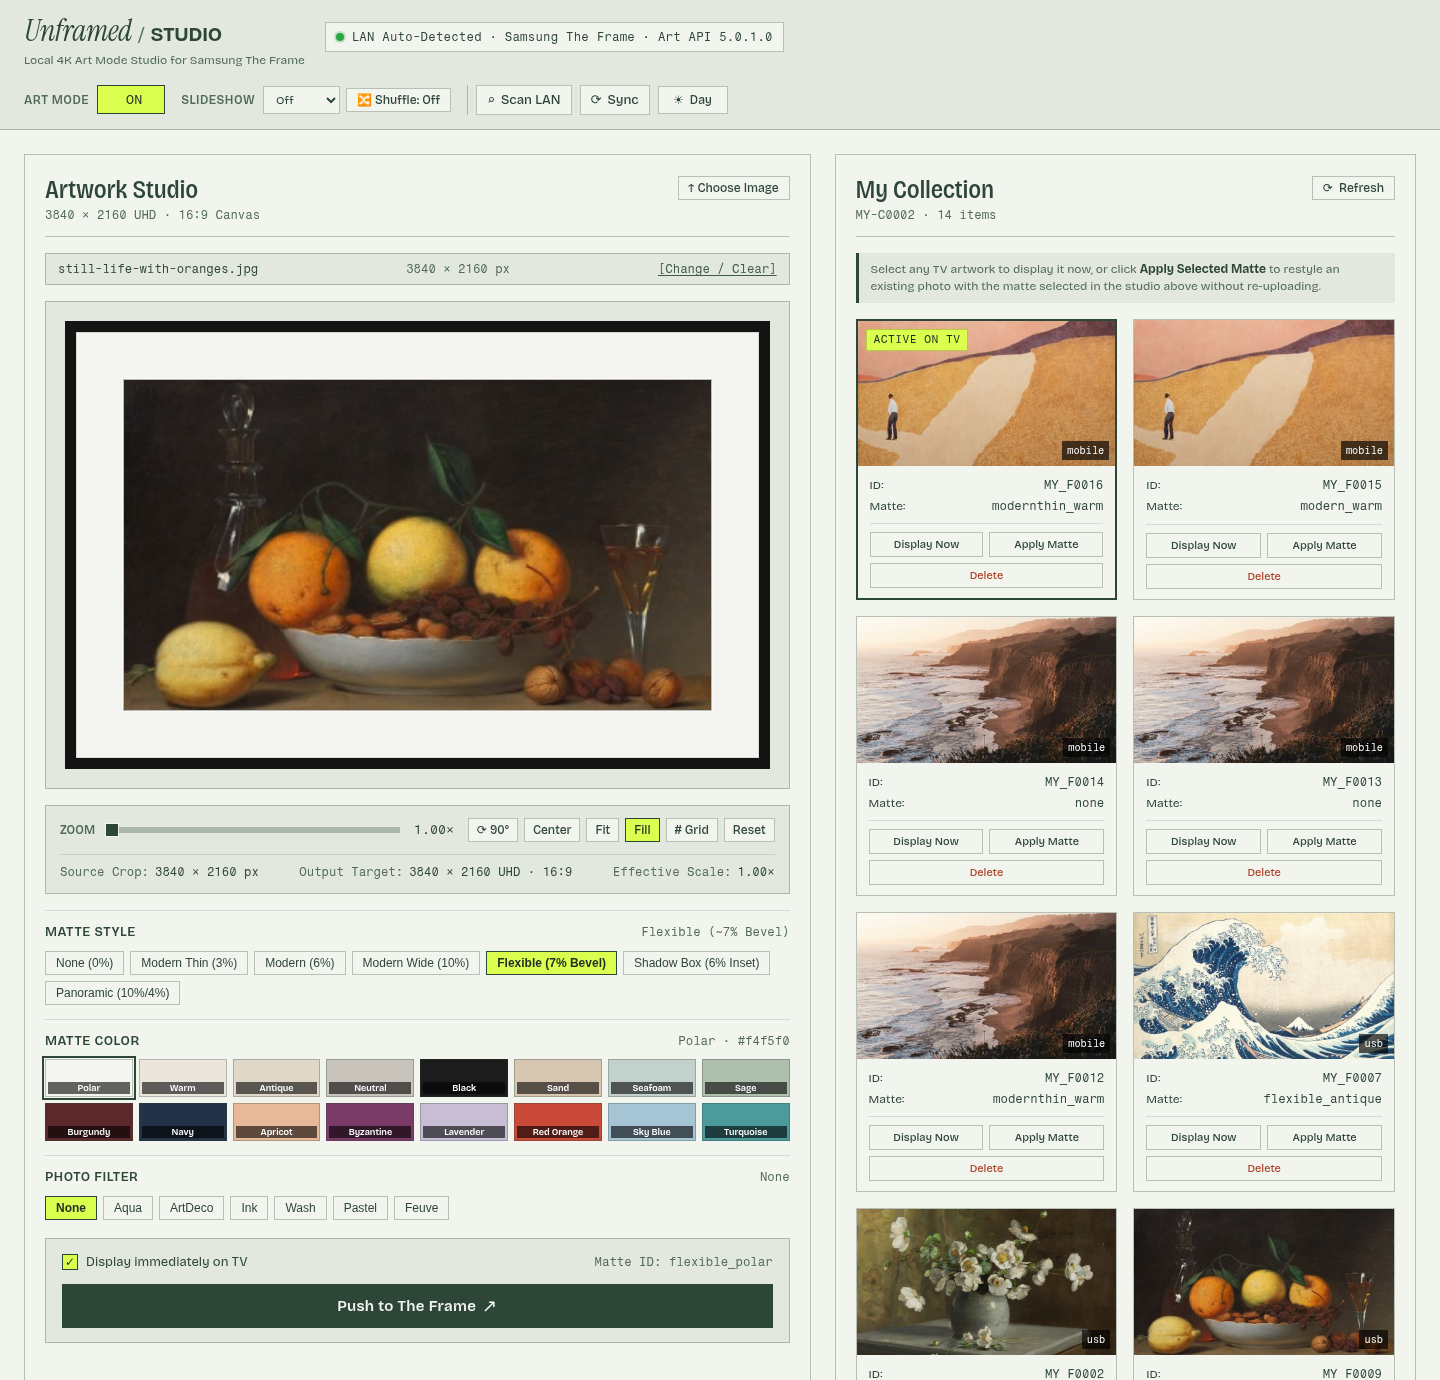
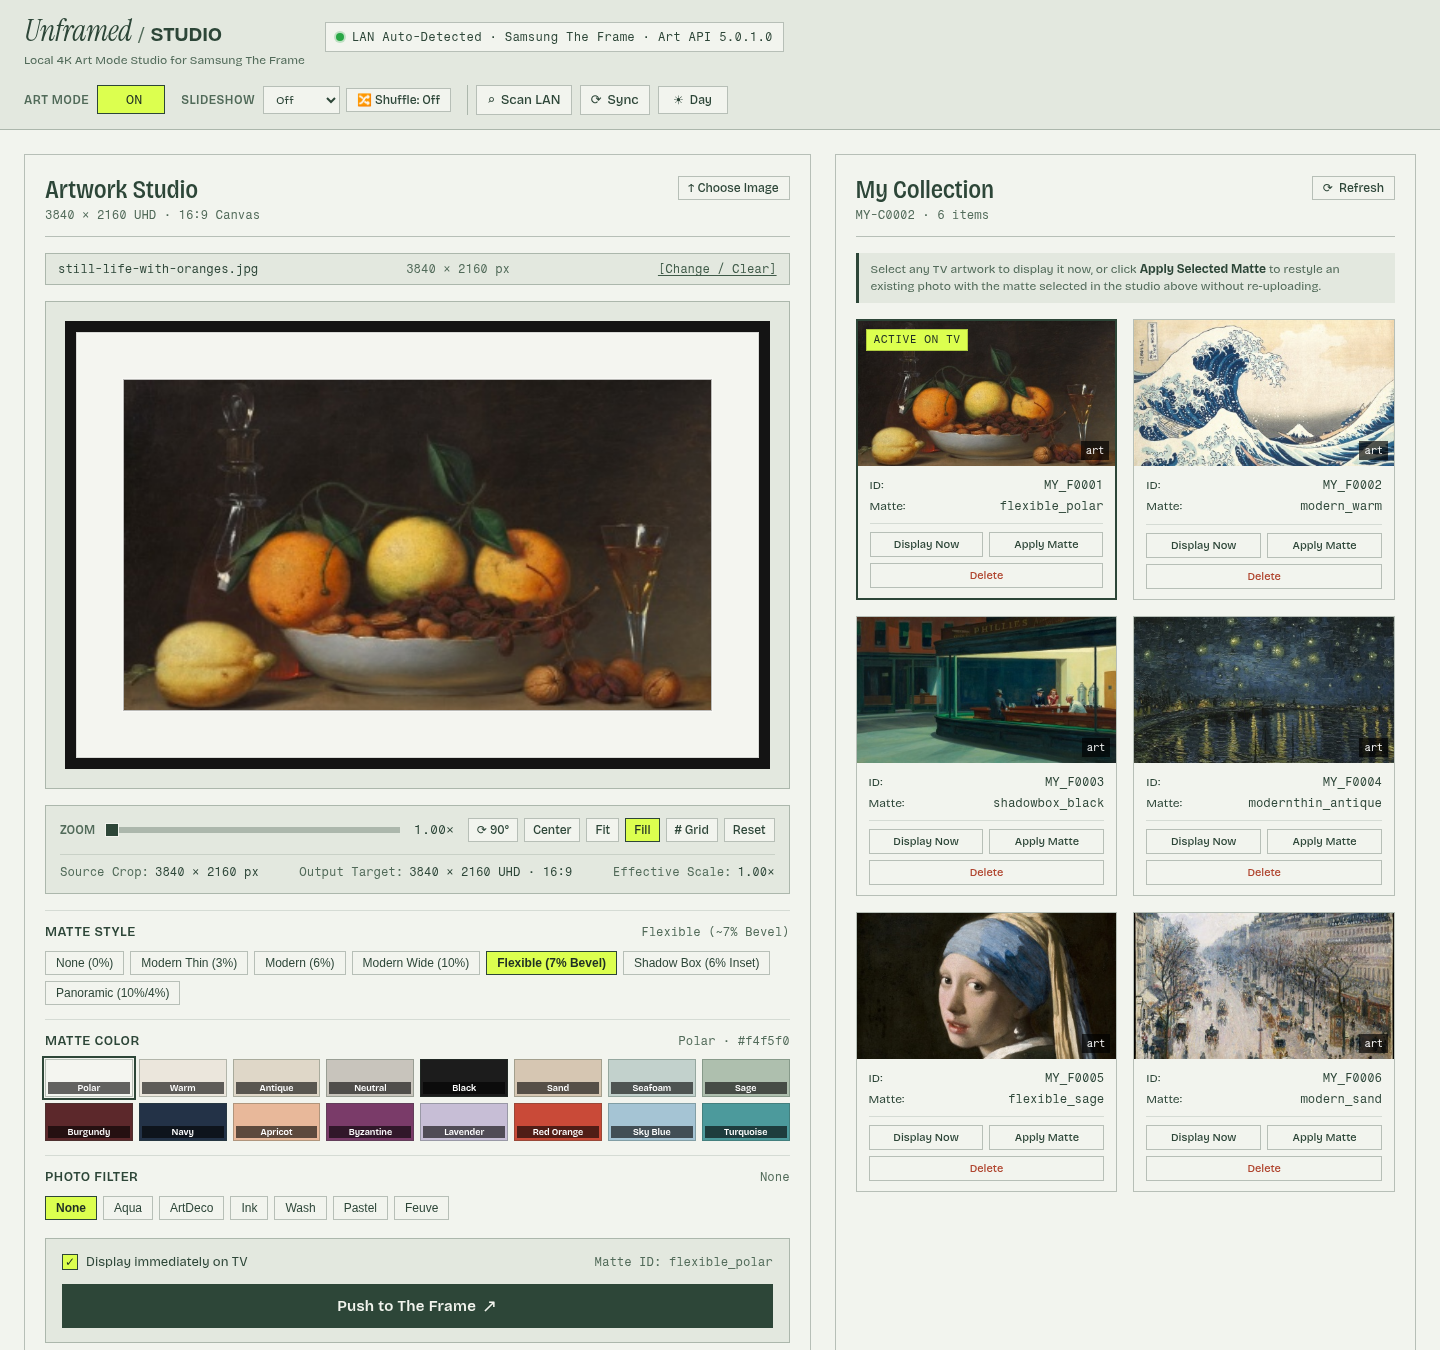
Curate showcase gallery screenshot and tighten README copy

diff --git a/README.md b/README.md
@@ -6,20 +6,16 @@
   <img src="./assets/readme/showcase.png" width="100%" alt="Unframed Studio UI showing the interactive 3840x2160 16:9 cropper, realistic beveled Polar matte simulator, 16 official Samsung matte color swatches, and the live My Collection TV gallery">
 </p>
 
-**Unframed** is a self-hosted 4K Art Mode studio and gallery for Samsung The Frame TVs. It auto-detects Frame TVs on your local network and pushes `3840 × 2160` UHD artwork, matte styles, and photo filters directly to the TV over LAN — no Samsung account, no SmartThings mobile app, and no internet connection required on the TV.
+**Unframed** is a local 4K Art Mode studio for Samsung The Frame TVs. If you firewall your TV from the internet to block ACR/telemetry, Samsung's SmartThings app stops working. Unframed auto-detects your TV on the LAN and pushes `3840 × 2160` UHD photos, mattes, and filters directly over local Wi-Fi — no Samsung account, no mobile app, no cloud.
 
 ---
 
-## Why Unframed Exists
+## Features
 
-Samsung's official workflow for uploading personal photos to The Frame requires signing into a Samsung cloud account, installing the SmartThings app, and allowing the TV to phone home to Samsung telemetry servers. If you firewall your TV from WAN access to block ACR and telemetry, the mobile app stops working.
-
-Unframed speaks the TV's on-device `com.samsung.art-app` TLS WebSocket protocol (`:8002`) and ephemeral Device-to-Device (D2D) binary TLS sockets directly on your local subnet:
-
-- **Zero-config LAN auto-discovery** — finds powered-on Samsung The Frame TVs in ~1.5 seconds via SSDP multicast (`M-SEARCH`) plus an 84-worker `/24` port-8001 capability scan (`FrameTVSupport == "true"`), even from inside a bridge-networked Docker container.
-- **Interactive 16:9 4K UHD studio (`3840 × 2160`)** — drag-and-drop JPEG/PNG/WebP, pan, wheel/pinch zoom (`1.0×`–`4.0×`), rotate 90°, toggle a Rule-of-Thirds grid, and encode 95% quality 4:4:4 chroma JPEGs via offscreen canvas + Pillow Lanczos resampling.
-- **Realistic matte & filter simulator** — preview all **7 matte styles** (`none`, `modernthin`, `modern`, `modernwide`, `flexible`, `shadowbox`, `panoramic`), all **16 official Samsung matte colors**, and **7 photo filters** with live beveled cutout geometry before pushing to the wall.
-- **Live "My Collection" (`MY-C0002`) gallery** — browse stored TV photos with locally cached thumbnails, switch the active display (`Display Now`), restyle mattes on existing photos in place (`Apply Matte`) without re-uploading, or delete items from TV storage.
+- **Zero-config LAN discovery** — finds Frame TVs in ~1.5s via SSDP + a `/24` port-8001 scan (`FrameTVSupport == "true"`), even inside a bridge-networked Docker container.
+- **Interactive 4K UHD cropper (`3840 × 2160`)** — drag-and-drop JPEG/PNG/WebP, pan, zoom (`1×`–`4×`), rotate, Rule-of-Thirds grid, and 95% 4:4:4 JPEG export.
+- **Live matte & filter simulator** — preview all **7 matte styles**, **16 Samsung matte colors**, and **7 photo filters** with beveled mat geometry before pushing.
+- **On-device gallery (`MY-C0002`)** — browse cached TV thumbnails, switch active art, restyle mattes in place without re-uploading, and toggle Art Mode or slideshows.
 
 ---
 
@@ -29,15 +25,13 @@ Unframed speaks the TV's on-device `com.samsung.art-app` TLS WebSocket protocol 
   <img src="./assets/readme/protocol.svg" width="100%" alt="Three-stage local LAN protocol: 1. SSDP and port 8001 /api/v2/ auto-discovery, 2. Short-lived TLS WebSocket on port 8002 to com.samsung.art-app, 3. Ephemeral D2D TLS binary socket for 4K JPEG upload and thumbnail transfer">
 </p>
 
-1. **Discovery (`:1900` SSDP + `:8001/api/v2/`)** — Queries Tizen's local JSON device descriptor to verify `device.FrameTVSupport == "true"`, read the model name, and self-heal if the TV's DHCP lease changes.
-2. **Short-lived Art Channel (`wss://<tv-ip>:8002/api/v2/channels/com.samsung.art-app`)** — Opens a TLS WebSocket only when an action runs and closes it immediately afterward, avoiding persistent socket lockups on 2024/2025 Tizen firmware. On first connection, clicking **Allow** on the TV remote issues a pairing token that Unframed saves to `/data/.tv_token`.
-3. **Ephemeral D2D TLS Transfer (`:<ephemeral>`)** — For `send_image` and `get_thumbnail_list`, the TV opens a one-shot TLS socket and sends `conn_info` (`ip`, `port`, `key`). Unframed streams `[4-byte big-endian header length][JSON header with secKey][raw JPEG bytes]` directly to the TV and caches a `384 × 216` gallery thumbnail locally.
+1. **Auto-Discovery (`:8001/api/v2/`)** — Verifies `FrameTVSupport == "true"` on the local subnet and self-heals if the TV's DHCP lease changes.
+2. **Art Channel (`wss://<tv>:8002`)** — Short-lived TLS WebSocket to `com.samsung.art-app` opened on demand; saves the pairing token to `/data/.tv_token` on first approval.
+3. **D2D Binary Stream (`:<ephemeral>`)** — Streams `[4B header len][JSON secKey][4K JPEG]` over a one-shot TLS socket and caches a `384 × 216` thumbnail locally.
 
 ---
 
 ## Quickstart
-
-### Docker Compose (Zero Configuration Required)
 
 ```bash
 git clone https://github.com/aaclarker/unframed.git
@@ -45,61 +39,35 @@ cd unframed
 docker compose up -d --build
 ```
 
-Open **`http://localhost:8094`**:
+Open **`http://localhost:8094`** with your TV on (or in Art Mode). Click **Allow** on the TV remote once when prompted — Unframed saves the token and discovered IP automatically.
 
-1. **Auto-Detection**: With your Frame TV powered on (or in Art Mode), Unframed automatically discovers it on your LAN and persists its IP and model in `/data/.tv_state.json`.
-2. **First-Time Pairing**: Approve the *"Allow Unframed to connect?"* prompt on your TV using the remote once. Unframed persists the token automatically.
-3. **Multi-TV or Routed VLANs**: Click **⌕ Scan LAN** in the header at any time to rescan, or copy `.env.example` to `.env` to pin `FRAME_TV_IP`, `FRAME_TV_SUBNET`, or an existing Home Assistant `samsungtv` token.
-
-### Local Python (`uv`)
-
-Requires Python 3.12+ and [`uv`](https://docs.astral.sh/uv/):
+<details>
+<summary><strong>Local Python (<code>uv</code>) &amp; Optional <code>.env</code> Settings</strong></summary>
 
 ```bash
 cd app
 uv run --with-requirements pyproject.toml uvicorn main:app --host 127.0.0.1 --port 8094
 ```
 
----
+All environment variables are optional (see [`.env.example`](.env.example)):
 
-## Configuration & Reference
-
-All environment variables are optional and can be set in `.env` (see [`.env.example`](.env.example)):
-
-| Variable | Default | Description |
+| Variable | Default | Purpose |
 |---|---|---|
-| `FRAME_TV_IP` | *(auto-detected)* | Static LAN IP of your Samsung The Frame TV |
-| `FRAME_TV_SUBNET` | *(auto-detected)* | `/24` subnet hint for LAN auto-discovery (e.g. `192.168.1.0/24`) |
-| `FRAME_TV_PORT` | `8002` | TLS WebSocket port on the TV |
-| `FRAME_TV_WS_NAME` | `Unframed` | Client name (plain text or base64-encoded) sent during WebSocket handshake |
-| `FRAME_TV_TOKEN` | *(auto-saved)* | 8-digit pairing token; persisted automatically per TV on first approval |
-| `FRAME_TV_MODEL` | *(auto-discovered)* | Override for the TV model badge (otherwise read from `http://<ip>:8001/api/v2/`) |
+| `FRAME_TV_IP` | *(auto-detected)* | Pin a static TV IP (e.g. across routed VLANs) |
+| `FRAME_TV_SUBNET` | *(auto-detected)* | `/24` subnet hint for LAN discovery (`192.168.1.0/24`) |
+| `FRAME_TV_TOKEN` | *(auto-saved)* | Pre-seed an 8-digit pairing token (e.g. from Home Assistant) |
+| `FRAME_TV_WS_NAME` | `Unframed` | Client name shown on the TV pairing prompt |
 | `PORT` | `8094` | Host port mapped by `docker-compose.yml` |
-
-<details>
-<summary><strong>REST API Endpoints</strong></summary>
-
-- `GET /healthz` — Healthcheck (`{"ok": true}`).
-- `GET /api/status` — Live TV status, active artwork, `my_photos` (`MY-C0002`), `discovered_tvs`, and supported mattes/filters.
-- `GET /api/discover` / `POST /api/discover` — Scans the LAN and returns all discovered Samsung The Frame TVs.
-- `POST /api/tv/select` — Switches the active TV (`{"ip": "192.168.1.x"}`).
-- `GET /api/thumbnail/{content_id}` — Returns the cached or D2D-fetched JPEG thumbnail (`image/jpeg`).
-- `POST /api/upload` — Multipart upload (`file`, `matte_id`, `portrait_matte_id`, `photo_filter`, `show_now`, optional `crop_x`, `crop_y`, `crop_w`, `crop_h`, `rotate`).
-- `POST /api/select` — Displays an existing artwork immediately on the TV (`{"content_id": "MY_F0001", "show": true}`).
-- `POST /api/matte` — Restyles an existing artwork's matte and photo filter in place (`{"content_id": "MY_F0001", "matte_id": "flexible_polar", "photo_filter": "None"}`).
-- `DELETE /api/art/{content_id}` — Deletes an artwork from TV storage and purges its cached thumbnail.
-- `POST /api/artmode` — Toggles Art Mode on or off (`{"status": "on" | "off"}`).
-- `POST /api/slideshow` — Sets slideshow interval in minutes (`0` = off) and shuffle (`{"duration": 15, "shuffle": true}`).
 
 </details>
 
 <details>
-<summary><strong>Tizen Art API 5.0.1.0 Quirks & Compatibility Notes</strong></summary>
+<summary><strong>REST API &amp; Tizen Art API 5.0.1.0 Notes</strong></summary>
 
-- **Command names**: 2024/2025 Frame firmware (`Art API 5.0.1.0`, e.g. `LS03D` / `LS03F`) uses `"request": "api_version"` rather than `"get_api_version"` (which is silently ignored).
-- **Stringified `conn_info`**: In `get_thumbnail_list` and `send_image` (`ready_to_use`), `conn_info` is returned as a JSON-encoded string inside the D2D service message payload, and `conn_info["id"]` must match the outer `request_id` UUID.
-- **OpenSSL 3 EOF handling**: Tizen's ephemeral D2D TLS socket server closes the TCP stream immediately after sending thumbnail bytes without a TLS `close_notify` alert; Unframed sets `ssl.OP_IGNORE_UNEXPECTED_EOF` so Python 3.12+ / OpenSSL 3 reads complete cleanly.
-- **Firewalling tip**: Block your TV's LAN IP on `LAN_IN` → WAN (drop outbound internet routing) rather than using your router's L2 client block, so the TV keeps DHCP and local subnet access while having zero WAN connectivity.
+**Endpoints:** `GET /api/status` · `POST /api/discover` · `POST /api/tv/select` · `GET /api/thumbnail/{id}` · `POST /api/upload` · `POST /api/select` · `POST /api/matte` · `DELETE /api/art/{id}` · `POST /api/artmode` · `POST /api/slideshow`
+
+- **2024/2025 Tizen (`Art API 5.0.1.0`)**: Uses `"request": "api_version"` (ignores `"get_api_version"`), returns `conn_info` as a nested JSON string whose `id` must match `request_id`, and requires `ssl.OP_IGNORE_UNEXPECTED_EOF` on D2D TLS reads.
+- **Router firewall tip**: Drop the TV's outbound WAN traffic on `LAN_IN` rather than L2-blocking the client so DHCP and local subnet access keep working.
 
 </details>
 
